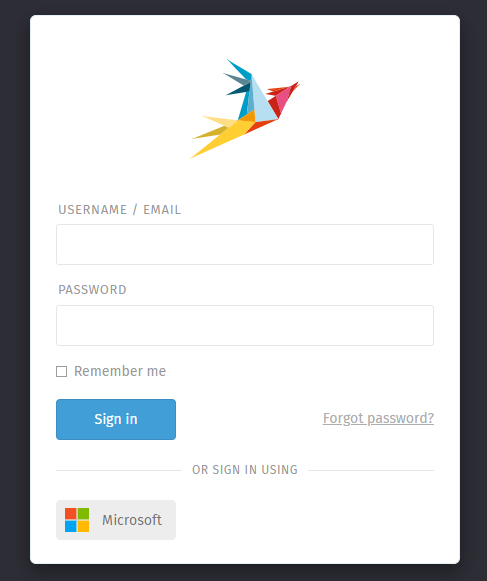
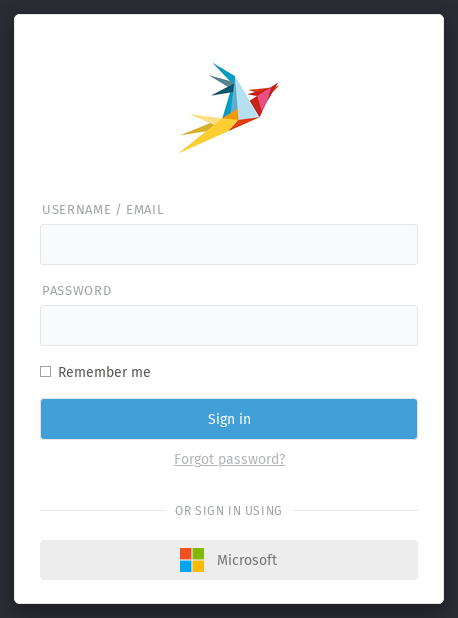
Follow-up #1269 - Remove outdated information and overhaul Microsoft third-party login

diff --git a/settings/security/third-party/microsoft.rst b/settings/security/third-party/microsoft.rst
@@ -1,111 +1,138 @@
 Microsoft
 =========
 
-Zammad's Microsoft connection allows your users with Microsoft accounts to login.
-This works for Azure users as well and can be an alternative to
-:doc:`/system/integrations/ldap/index`.
+Zammad's Microsoft connection allows your users with Microsoft accounts to log
+in. This works for Entra ID users as well and can be an alternative to
+:doc:`/system/integrations/ldap/index`. The configuration in Zammad is located
+under *Settings > Security > Third-party Applications* in the
+**Authentication via Microsoft** section. To access it, the permission
+``admin.security`` is required.
 
 .. note::
 
-   This documentation part does not cover our
+   This page does not cover our
    :doc:`📧 Microsoft 365 email channel </channels/microsoft365/index>`.
 
 .. figure:: /images/settings/security/third-party/microsoft/zammad-login-interface-with-microsoft-login.png
-   :alt: Screenshot showing Microsoft login button on Zammad login screen.
-   :scale: 75%
+   :alt: Screenshot shows Microsoft login button on Zammad login screen.
    :align: center
 
 Limitations
 -----------
 
-Please note that Zammad only supports these account types (app dependent):
+Please note that Zammad only supports these account types (app-dependent):
 
-- Accounts in this organizational directory only (Default Directory only -
-  Single tenant)
-- Accounts in any organizational directory (Any Azure AD directory -
-  Multitenant)
-- Accounts in any organizational directory (Any Azure AD directory -
-  Multitenant) and personal Microsoft accounts (e.g. Skype, Xbox)
+- **Single tenant only**: restrict sign-in to users (or guests) in your
+  own tenant.
+- **Multiple Entra ID tenants**: allow users in any Microsoft Entra
+  tenant to sign in.
+- **Any Entra ID tenant + personal Microsoft accounts**: allow users in
+  any Microsoft Entra tenant, as well as users with personal Microsoft
+  accounts (e.g. Skype, Xbox), to sign in.
 
-Step 1 - Register a Microsoft App for Zammad
---------------------------------------------
+Register a Microsoft App in Entra ID
+------------------------------------
 
-Login to the `Microsoft Azure Portal <https://portal.azure.com/>`_
-and navigate to App registrations to create a new app.
-Provide the requested information as follows and register your app.
+Sign in to the `Microsoft Entra admin center <https://entra.microsoft.com/>`_,
+go to **App registrations** and create a new app. Provide the requested
+information to register your app.
 
-Name:
-   Any meaningful name fitting, this name will be displayed to users
-   trying to authenticate with this app.
+Name
+   Any meaningful name fits, as it is displayed to users trying
+   to authenticate with this app.
 
-Supported account types:
-   Choose one of the above mentioned account types (see Limitations).
+Supported account types
+   Choose one of the account types listed above. The correct account type
+   depends on your use case. If you only want to use authentication
+   internally, choose the first option. If you're unsure, use the
+   "Help me choose..." link.
 
-   The correct account type depends on your use case.
-   If you want to use the authentication internal only, choose the first
-   option. If you're unsure, use the "Help me choose..." link.
+Redirect URI (optional)
+   Select **Web** as the platform and provide your callback URL. You can find
+   and copy it from Zammad's read-only **Your callback URL** field. Paste it
+   into the redirect URI field in Microsoft's app configuration.
 
-Redirect URI (optional):
-   Select web and provide your callback URL.
    The callback URL looks like this:
-   ``https://zammad.domain.tld/auth/microsoft_office365/callback``
+   ``https://zammad.example.com/auth/microsoft_office365/callback``
 
-.. figure:: /images/settings/security/third-party/microsoft/register-microsoft-app.gif
-   :alt: Screencast showing how to register a Microsoft app
-   :width: 80%
-   :align: center
+Sign-in requires only the ``User.Read`` API permission, which new apps
+already have. You can verify this under **API permissions** within
+*Microsoft Graph > Delegated permissions*. The ``openid`` scope is part
+of the sign-in protocol and is sent automatically, so there is nothing
+to add.
 
-Within  **API permissions** add the following permissions:
-    - ``openid``
-    - ``User.Read``
+Within **Certificates & secrets**, create a new client secret. Note down the
+returned secret **value** for the next step. **Do not** use the secret ID!
 
-You can find these permissions within *Microsoft Graph > Delegated permissions*.
+Add App Credentials to Zammad
+-----------------------------
 
-.. figure:: /images/settings/security/third-party/microsoft/microsoft-app-add-api-permissions.gif
-   :alt: Screencast showing how to add required API permissions
-   :width: 80%
-   :align: center
+Now you are ready to provide the values to Zammad. The following table
+maps the values you collected in Entra ID to the fields in Zammad.
 
-Within **Certificates & secrets** create a new client secret.
-Note down the returned secret **value** for later. **Do not** use the secret ID!
+.. list-table::
+   :header-rows: 1
+   :widths: 35 25 40
 
-.. figure:: /images/settings/security/third-party/microsoft/microsoft-app-create-secret.gif
-   :alt: Screencast showing how to create a new app secret
-   :width: 80%
-   :align: center
+   * - Entra ID
+     - Zammad field
+     - Comment
+   * - **Application (client) ID**
+     - **App ID**
+     - From **Overview** in the Entra ID portal.
+   * - **Client secret** (value)
+     - **App Secret**
+     - From **Certificates & secrets** > **Client secrets**. Use the *value*, not the *secret ID*.
+   * - **Directory (tenant) ID**
+     - **App Tenant ID**
+     - Optional. Required only when the app uses the **Single tenant only** account type.
 
-From **Overview** copy your apps *Application (client) ID*.
-If you're using a single tenant app, please also copy *Directory (tenant) ID*.
-You now have all required information for Zammad.
+Make sure to enable the toggle next to **Authentication via Microsoft** and
+click ``Submit`` to activate and save your configuration.
 
-.. figure:: /images/settings/security/third-party/microsoft/microsoft-app-get-applicationID-and-tenantID.gif
-   :alt: Screencast showing how to retrieve application client and tenant IDs
-   :width: 80%
-   :align: center
+Optional: Require a Verified Email Domain for Account Linking
+-------------------------------------------------------------
 
-Step 2 - Add App Credentials to Zammad
---------------------------------------
+In multi-tenant (``/common``) setups, anyone signing in can present an email
+address from any domain. Microsoft signals whether the domain of that address
+is verified for the account's tenant via the ``xms_edov`` ("email domain owner
+verified") claim in the ID token. Enable **Require verified email domain** to
+make Zammad insist on that signal before it links a Microsoft login to an
+existing Zammad user by email address.
 
-Navigate to *Settings > Security > Third-party Applications* within Zammad's
-admin settings. Scroll down to the section *Authentication via Microsoft* and
-fill in the required information.
+.. note::
 
-App ID:
-   This is your *Application (client) ID*.
+   This option only has an effect in combination with
+   :ref:`Automatic account link on initial logon <automatic-account-linking>`.
+   Without it, Zammad never links a third-party login to an existing account
+   by email address in the first place.
 
-App secret:
-   This is your *client secret* (value).
+With the option enabled, Zammad links a login to an existing user only if all
+of the following conditions apply:
 
-App Tenant ID:
-   **optional** only required for apps that use account type
-   *Accounts in this organizational directory only
-   (Default Directory only - Single tenant).*
+- The ID token contains an ``xms_edov`` claim with the value ``true``.
+- The ID token contains a non-empty ``email`` claim.
+- That ``email`` claim matches the email address of the account that is about
+  to be linked (upper and lower case are treated as equal).
 
-Apply your settings by pressing submit and activate
-*Authentication via Microsoft*.
+If one of these conditions is not met, Zammad refuses to link the accounts and
+the sign-in fails with an error message: either that the email address is
+already in use by another user, or, if **No user creation on logon** is
+enabled, that the user account does not exist. Affected users can still get
+access: they log in to their existing Zammad account by other means and link
+their Microsoft account themselves under *Profile > Linked Accounts*.
 
-.. figure:: /images/settings/security/third-party/microsoft/add-microsoft-app-credentials-to-zammad.gif
-   :alt: Screencast showing how to add app credentials and activating the
-         authentication method
-   :width: 80%
-   :align: center
+While the option is disabled (default), Zammad does not require the claim:
+Microsoft either reports a verified domain via ``xms_edov`` or omits the claim
+entirely, so an existing account is linked as soon as the email address
+matches. Only enabling the option makes the verified domain a requirement.
+
+.. warning::
+
+   Both claims must be configured on your app registration first. In the
+   `Microsoft Entra admin center <https://entra.microsoft.com/>`_, go to
+   *Entra ID > App registrations*, select your app and choose
+   **Token configuration** under **Manage**. Select **Add optional claim**,
+   set the token type to **ID token** and add the claims ``email`` and
+   ``xms_edov``. As long as they are missing, enabling the option blocks all
+   Microsoft account linking by email address.
